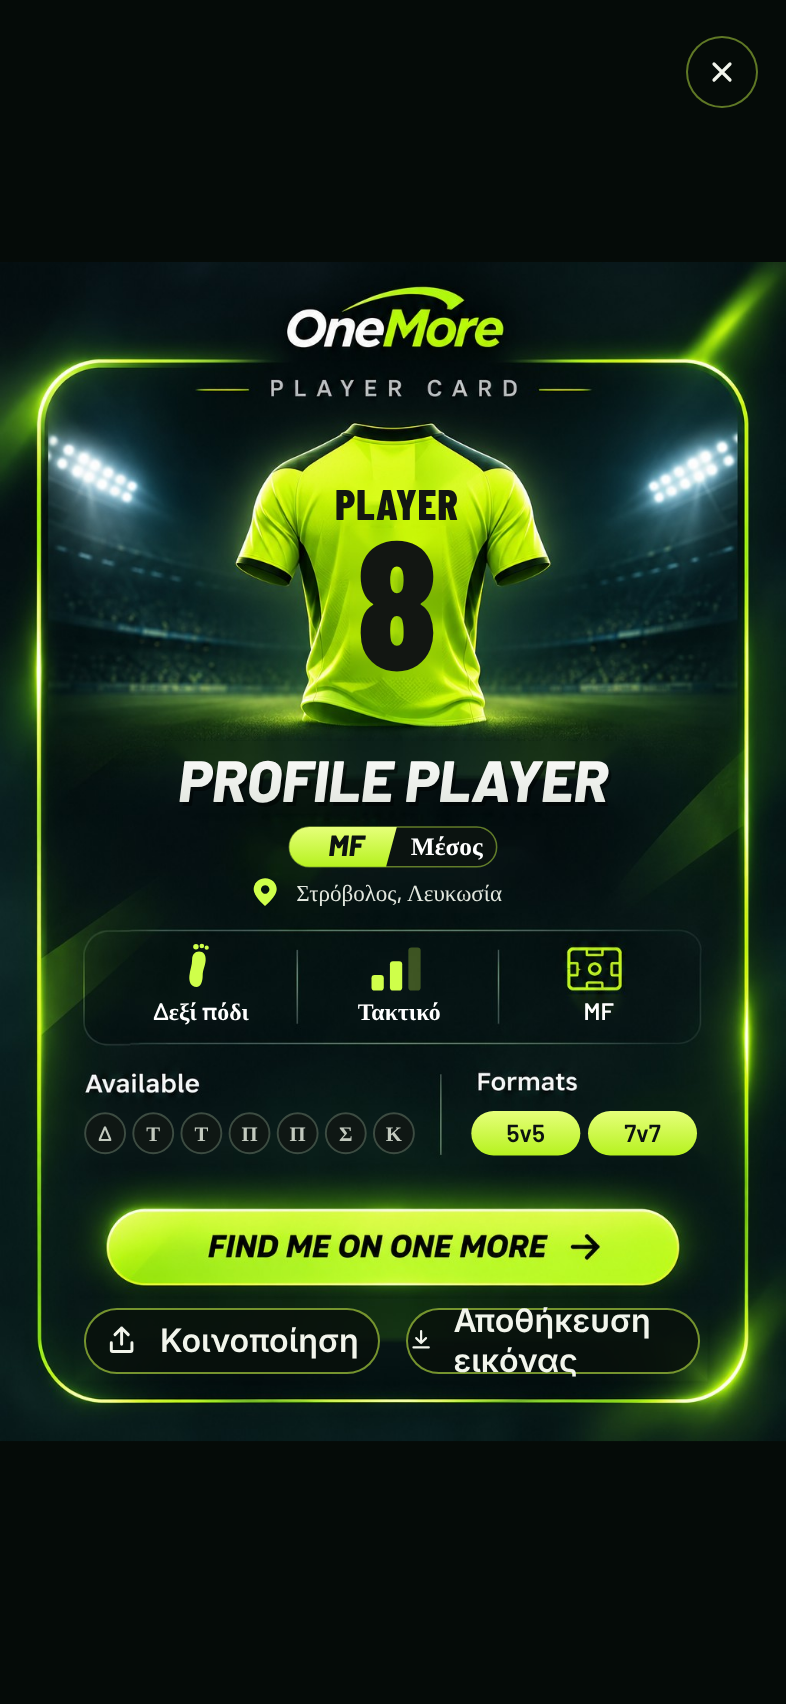
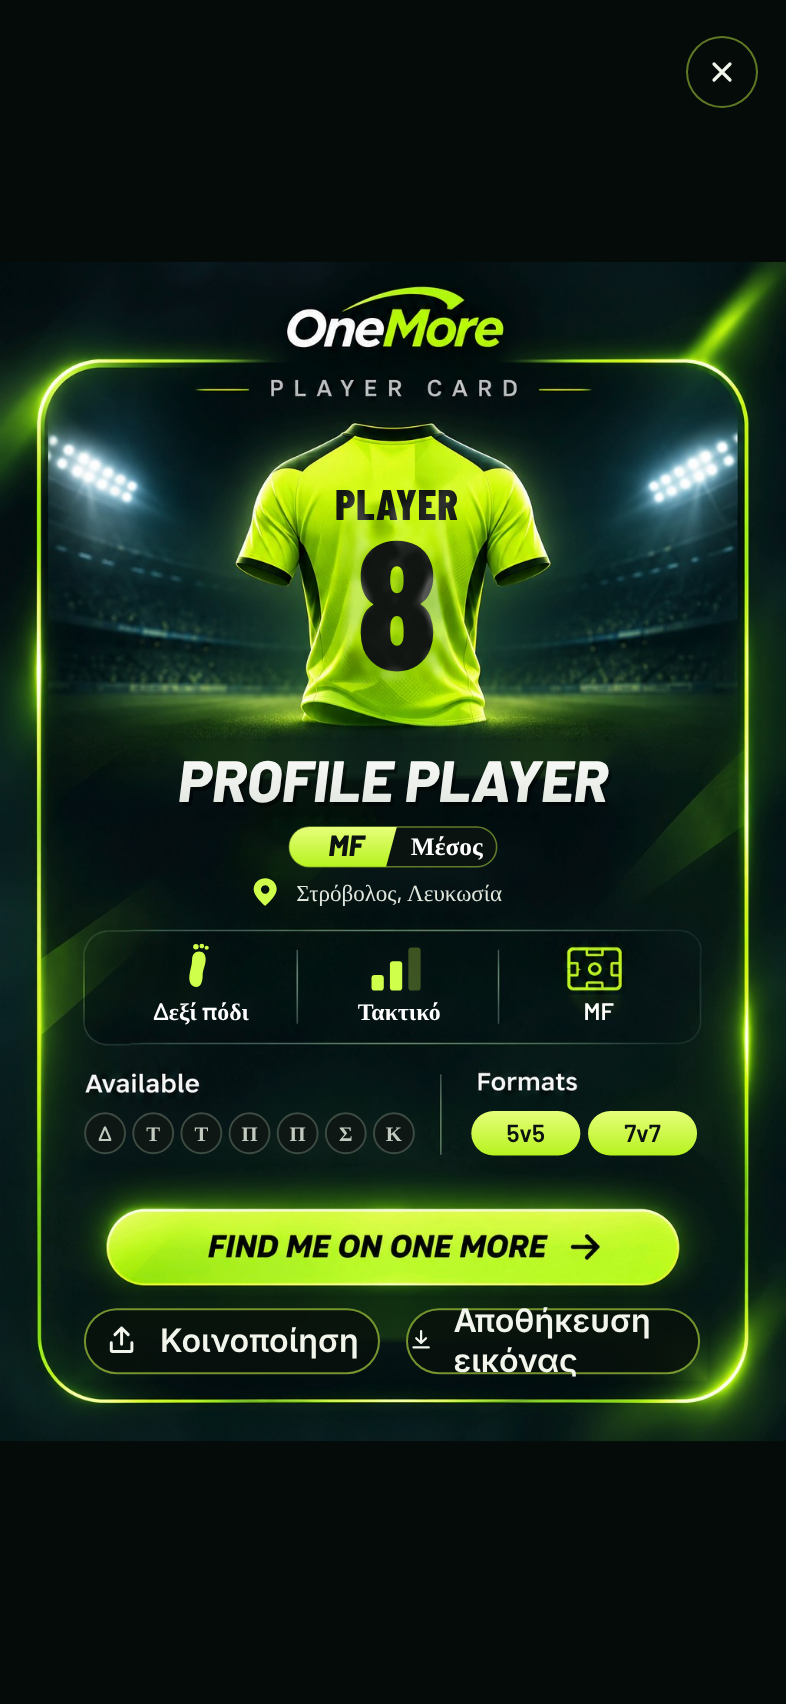
feat: player card jersey creases and level colourways
Restore fabric creases under the print, add a soft crease overlay above
the surname and number, and ship Casual/Regular/Competitive templates.
Track the card images, which .gitignore had been excluding.

Claude-Session: https://claude.ai/code/session_018Y2DJcCxNRruUAufNUxVdN

Changed region(s): [[0.4275, 0.2799, 0.5802, 0.4043], [0.4885, 0.3732, 0.5191, 0.4043]]

diff --git a/src/features/profile/PlayerCardShareModal.tsx b/src/features/profile/PlayerCardShareModal.tsx
@@ -250,6 +250,28 @@ export function PlayerCardShareModal({ visible, onClose, copy, ...card }: Player
 }
 
 
+/** Level colourways: recoloured copies of the card template plus matching accents. */
+const cardThemes: Record<SkillLevel, { accent: string; light: string; deep: string; template: number }> = {
+  beginner: {
+    accent: '#3ff0c0',
+    light: '#a6ffe6',
+    deep: '#16c99a',
+    template: require('@/assets/images/player-card-casual.jpg'),
+  },
+  intermediate: {
+    accent: lime,
+    light: '#e6ff7a',
+    deep: '#b6f21f',
+    template: require('@/assets/images/player-card-regular.jpg'),
+  },
+  advanced: {
+    accent: '#ffd23a',
+    light: '#ffe68a',
+    deep: '#f2b51f',
+    template: require('@/assets/images/player-card-competitive.jpg'),
+  },
+};
+
 /** Rough width of a string in em for sizing text to fit a box. */
 function fitSize(text: string, maxWidth: number, maxSize: number, emPerChar: number) {
   return Math.min(maxSize, Math.floor(maxWidth / (Math.max(text.length, 1) * emPerChar)));
@@ -275,6 +297,7 @@ function PlayerCardArt({
   dayLetters,
   copy,
 }: PlayerCardData & { copy: Copy }) {
+  const { accent, light, deep, template } = cardThemes[skillLevel ?? 'intermediate'];
   const words = name.trim().split(/\s+/u).filter(Boolean);
   const surname = (words[words.length - 1] ?? '').toUpperCase().slice(0, 12);
   const fullName = truncate(name.toUpperCase(), 22);
@@ -296,15 +319,15 @@ function PlayerCardArt({
     <>
       <Defs>
         <LinearGradient id="pc-pill" x1="0" y1="0" x2="0" y2="1">
-          <Stop offset="0" stopColor="#e6ff7a" />
-          <Stop offset="1" stopColor="#b6f21f" />
+          <Stop offset="0" stopColor={light} />
+          <Stop offset="1" stopColor={deep} />
         </LinearGradient>
         <LinearGradient id="pc-name" x1="0" y1="0" x2="0" y2="1">
           <Stop offset="0" stopColor="#ffffff" />
           <Stop offset="1" stopColor="#dfe4dc" />
         </LinearGradient>
       </Defs>
-      <SvgImage href={require('@/assets/images/player-card-template.jpg')} x="0" y="0" width={W} height={H} />
+      <SvgImage href={template} x="0" y="0" width={W} height={H} />
 
       {/* jersey print */}
       {surname ? (
@@ -315,6 +338,8 @@ function PlayerCardArt({
       <SvgText x="517" y="532" textAnchor="middle" fill="#121612" fontSize={numberSize} fontWeight="800" fontFamily="BarlowCondensed_800ExtraBold">
         {numberText}
       </SvgText>
+      {/* fabric creases laid over the print so it reads as printed on the shirt */}
+      <SvgImage href={require('@/assets/images/player-card-folds.png')} x="440" y="276" width="160" height="276" />
 
       {/* name */}
       <SvgText x="516" y="709" textAnchor="middle" fill="#000000" opacity="0.45" fontSize={nameSize} fontWeight="800" fontFamily="Barlow_800ExtraBoldItalic">
@@ -326,7 +351,7 @@ function PlayerCardArt({
 
       {/* position pill */}
       <G transform={`translate(${pillX} 736)`}>
-        <Rect x="0" y="0" width={pillWidth} height="52" rx="26" fill="#0b1310" stroke={lime} strokeOpacity="0.45" strokeWidth="2" />
+        <Rect x="0" y="0" width={pillWidth} height="52" rx="26" fill="#0b1310" stroke={accent} strokeOpacity="0.45" strokeWidth="2" />
         <Path d="M26 0 H140 L126 52 H26 A26 26 0 0 1 26 0 Z" fill="url(#pc-pill)" />
         <SvgText x="74" y="38" textAnchor="middle" fill={ink} fontSize="38" fontWeight="800" fontFamily="Barlow_800ExtraBoldItalic">
           {shortPos}
@@ -342,7 +367,7 @@ function PlayerCardArt({
           <Path
             d="M0 -15 C-9 -15 -15 -8 -15 -1 C-15 9 0 21 0 21 C0 21 15 9 15 -1 C15 -8 9 -15 0 -15 Z M0 -6 a5.5 5.5 0 1 0 0.01 0"
             transform={`translate(${512 - placeWidth / 2 - 24} 818)`}
-            fill={lime}
+            fill={accent}
             fillRule="evenodd"
           />
           <SvgText x={512 + 8} y="832" textAnchor="middle" fill="#e1e6dd" fontSize="30" fontWeight="500" fontFamily="Barlow_500Medium">
@@ -353,11 +378,11 @@ function PlayerCardArt({
 
       {/* stats */}
       <G transform="translate(230 884)">
-        <FootMark foot={strongFoot} color={lime} scale={2.75} />
+        <FootMark foot={strongFoot} color={accent} scale={2.75} />
       </G>
       <G transform="translate(484 893)">
         {[0, 1, 2].map((index) => (
-          <Rect key={index} x={index * 24} y={36 - index * 18} width="16" height={20 + index * 18} rx="4" fill={lime} opacity={index < bars ? 1 : 0.28} />
+          <Rect key={index} x={index * 24} y={36 - index * 18} width="16" height={20 + index * 18} rx="4" fill={accent} opacity={index < bars ? 1 : 0.28} />
         ))}
       </G>
       {[
@@ -375,7 +400,7 @@ function PlayerCardArt({
         const cx = 137 + index * 62.7;
         return (
           <G key={index}>
-            <Circle cx={cx} cy="1135" r="26" fill={on ? lime : '#0f1714'} stroke={on ? lime : '#3d4c42'} strokeWidth="2.5" />
+            <Circle cx={cx} cy="1135" r="26" fill={on ? accent : '#0f1714'} stroke={on ? accent : '#3d4c42'} strokeWidth="2.5" />
             <SvgText x={cx} y="1145" textAnchor="middle" fill={on ? ink : '#c3cabf'} fontSize="27" fontWeight="600" fontFamily="Barlow_600SemiBold">
               {dayLetters[index] ?? ''}
             </SvgText>

diff --git a/docs/IMPLEMENTATION_LOG.md b/docs/IMPLEMENTATION_LOG.md
@@ -1422,3 +1422,8 @@
 - **Summary:** The user's supplied card design image is now the card background (`assets/images/player-card-template.jpg`, 1024×1536). Its demo text, jersey print, position pill, location, stat labels, level bars, foot icon, days, formats and the Share/Save buttons were removed with OpenCV inpainting; the app draws each player's real data in the same positions (surname and number on the jersey, italic name, position pill, location, foot/level/position, availability days, chosen formats, Player ID). Added Barlow ExtraBold Italic (OFL). Exports a 1024×1536 PNG on web (fonts/images inlined) and via `toDataURL` on native.
 - **Checks:** lint PASS; typecheck PASS; unit tests PASS (38/38); build:web PASS; e2e phase-17 profile PASS (mobile + desktop Chromium).
 - **Browser verification:** Compared the export side by side with the supplied design; checked short and long names and two levels. Native share not device-tested.
+
+### 2026-11-14 — Phase 17 Player card: jersey creases and level colourways
+
+- **Summary:** Restored the jersey's fabric creases under the removed demo print (fold map from the original fabric/ink, glyph edges inpainted to avoid ghosting) and added a soft, feathered crease-highlight overlay above the printed surname/number so the print reads as part of the shirt. Added three recoloured templates by level (Casual teal, Regular lime, Competitive gold) with matching accents for pill, location pin, stats, days and formats. Fixed `.gitignore`: card assets under `assets/images/` were being ignored, so the previously pushed template image was missing from git.
+- **Checks:** lint PASS; typecheck PASS; unit tests PASS (38/38); build:web PASS; e2e phase-17 profile PASS (mobile + desktop Chromium). Exported all three colourways in Chromium and compared the jersey close-up with the supplied design.
